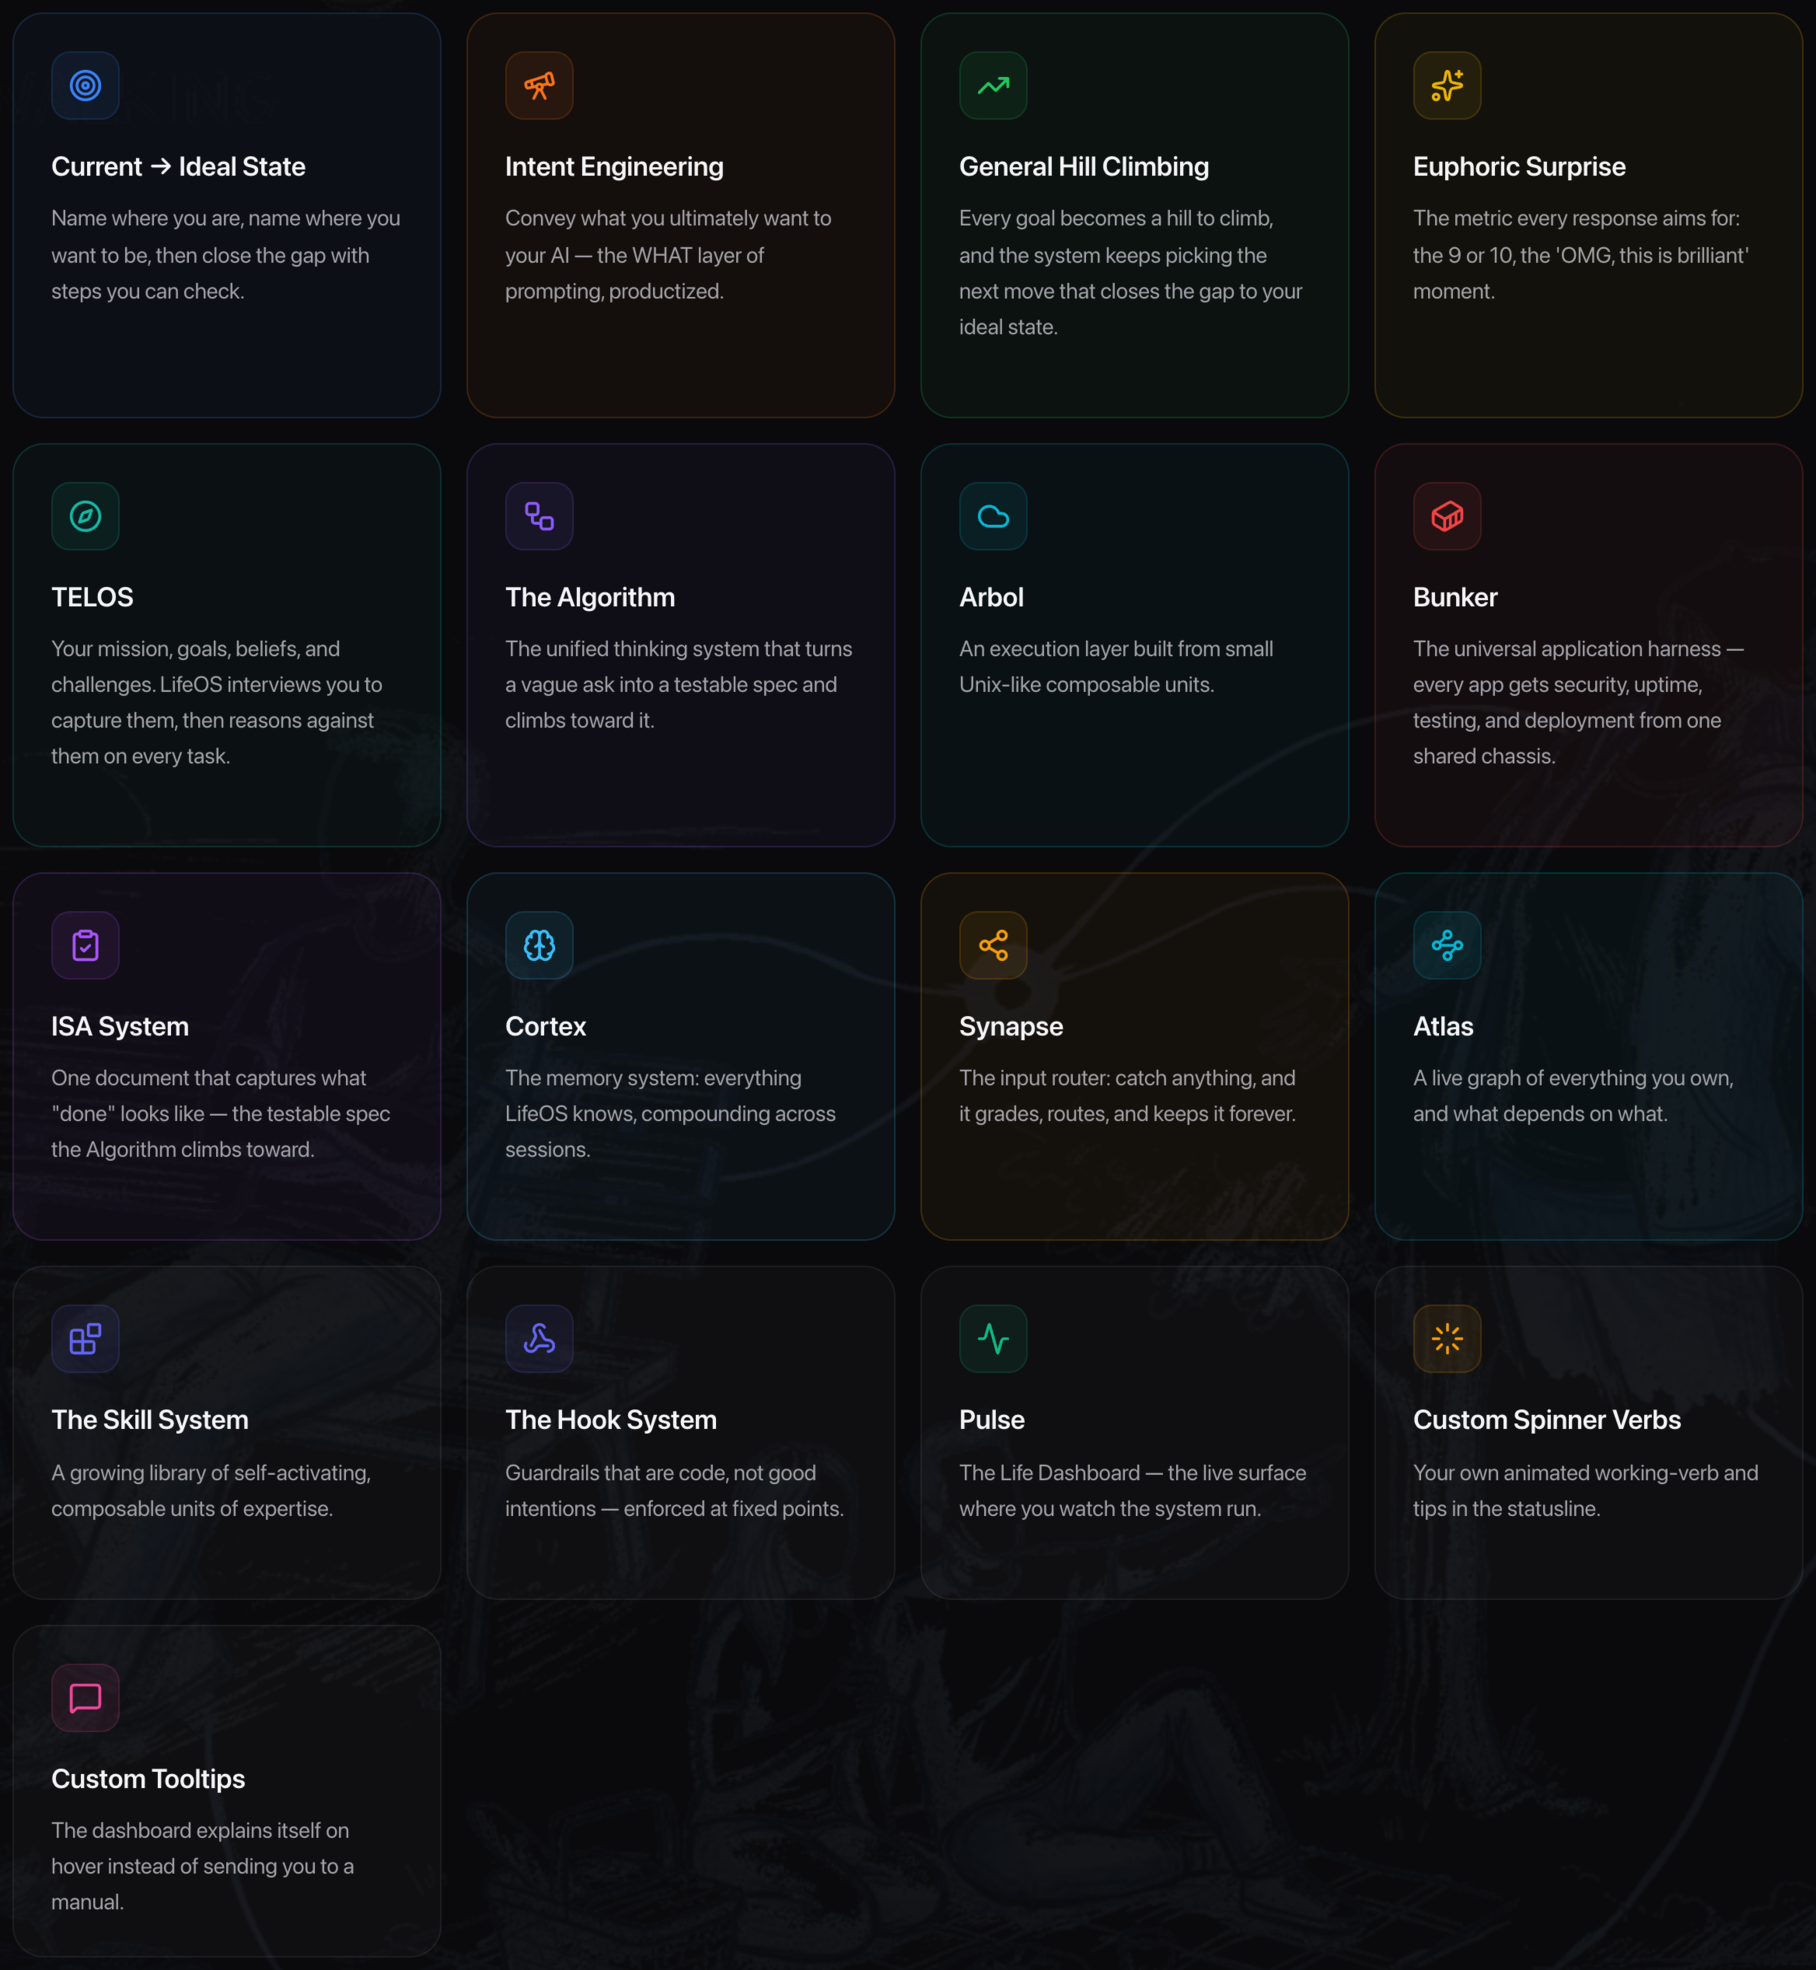
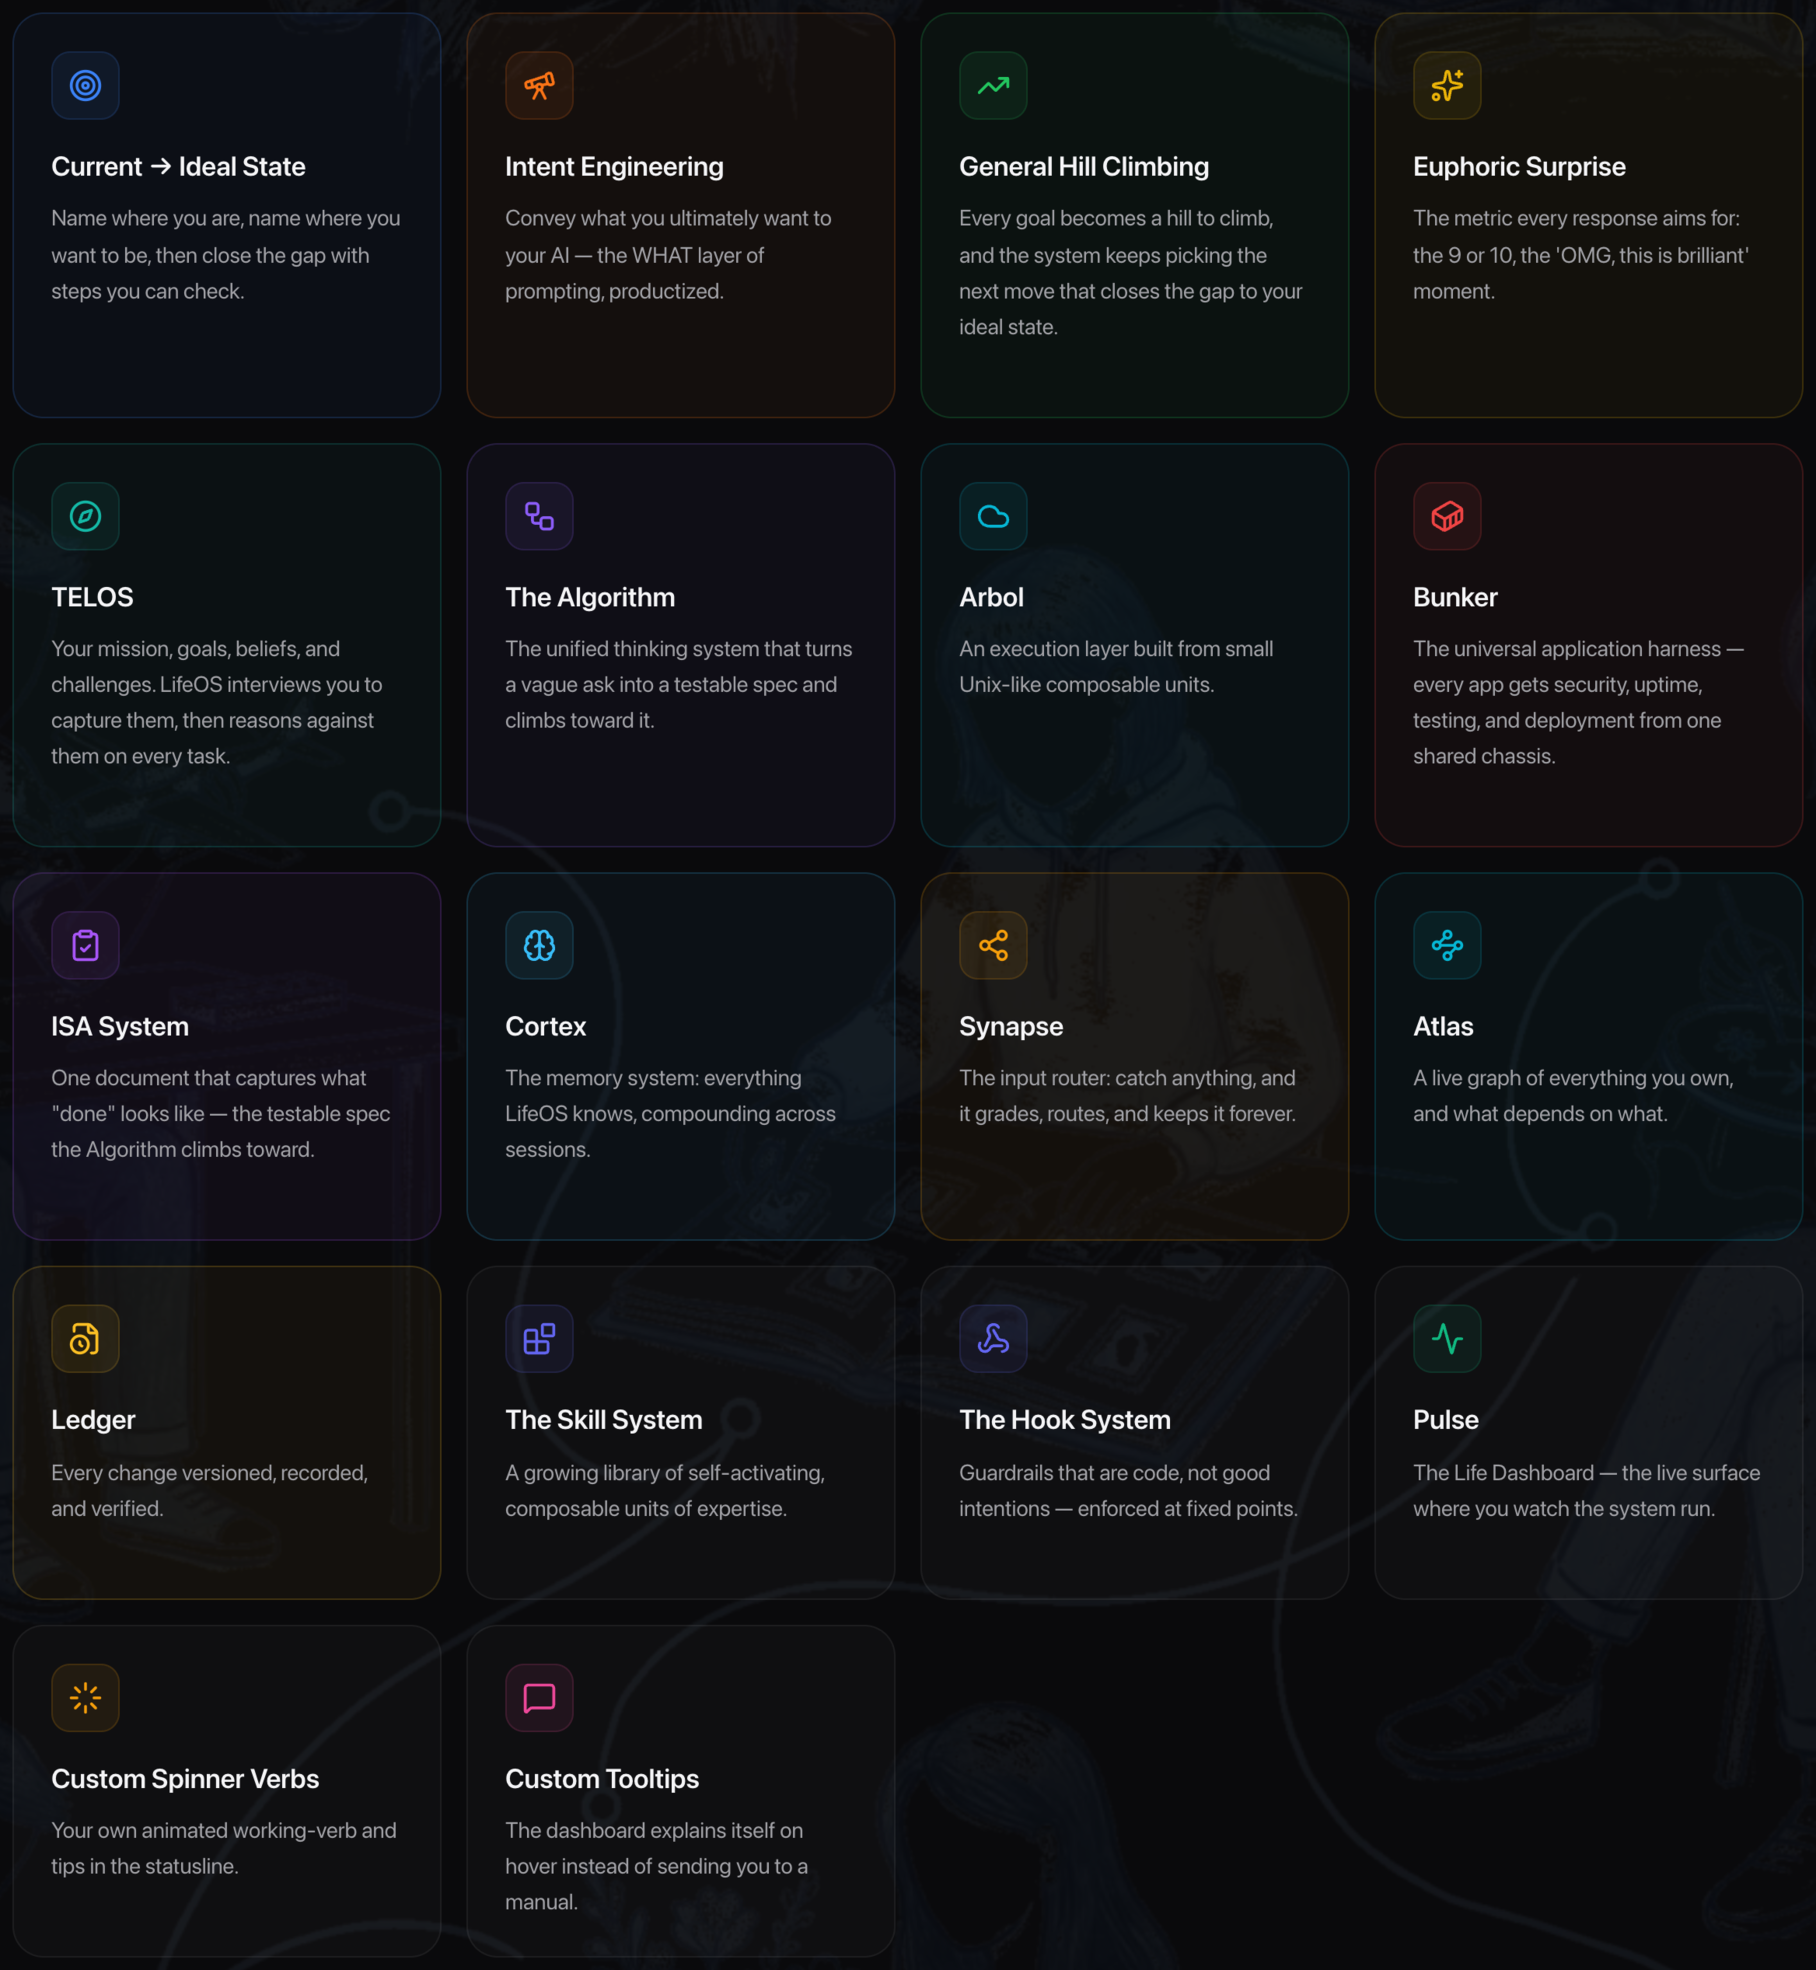
docs: Core Components screenshot — Ledger promoted to unique features

diff --git a/README.md b/README.md
@@ -71,7 +71,7 @@ Either path needs a capable AI coding harness — we build and run on [Claude Co
 
 **The unique features** — the parts you won't find anywhere else, plus the subsystems underneath. See them live and click through on **[ourlifeos.ai](https://ourlifeos.ai)**.
 
-<a href="https://ourlifeos.ai"><img src="images/lifeos-core-components.png" width="100%" alt="LifeOS core components — Current→Ideal State, Intent Engineering, General Hill Climbing, Euphoric Surprise, TELOS, the Algorithm, Arbol, Bunker, the ISA System, Cortex, Synapse, Atlas, the Skill System, the Hook System, Pulse, Custom Spinner Verbs, and Custom Tooltips. Click to explore them live on ourlifeos.ai." /></a>
+<a href="https://ourlifeos.ai"><img src="images/lifeos-core-components.png" width="100%" alt="LifeOS core components — Current→Ideal State, Intent Engineering, General Hill Climbing, Euphoric Surprise, TELOS, the Algorithm, Arbol, Bunker, the ISA System, Cortex, Synapse, Atlas, Ledger, the Skill System, the Hook System, Pulse, Custom Spinner Verbs, and Custom Tooltips. Click to explore them live on ourlifeos.ai." /></a>
 
 ---
 
